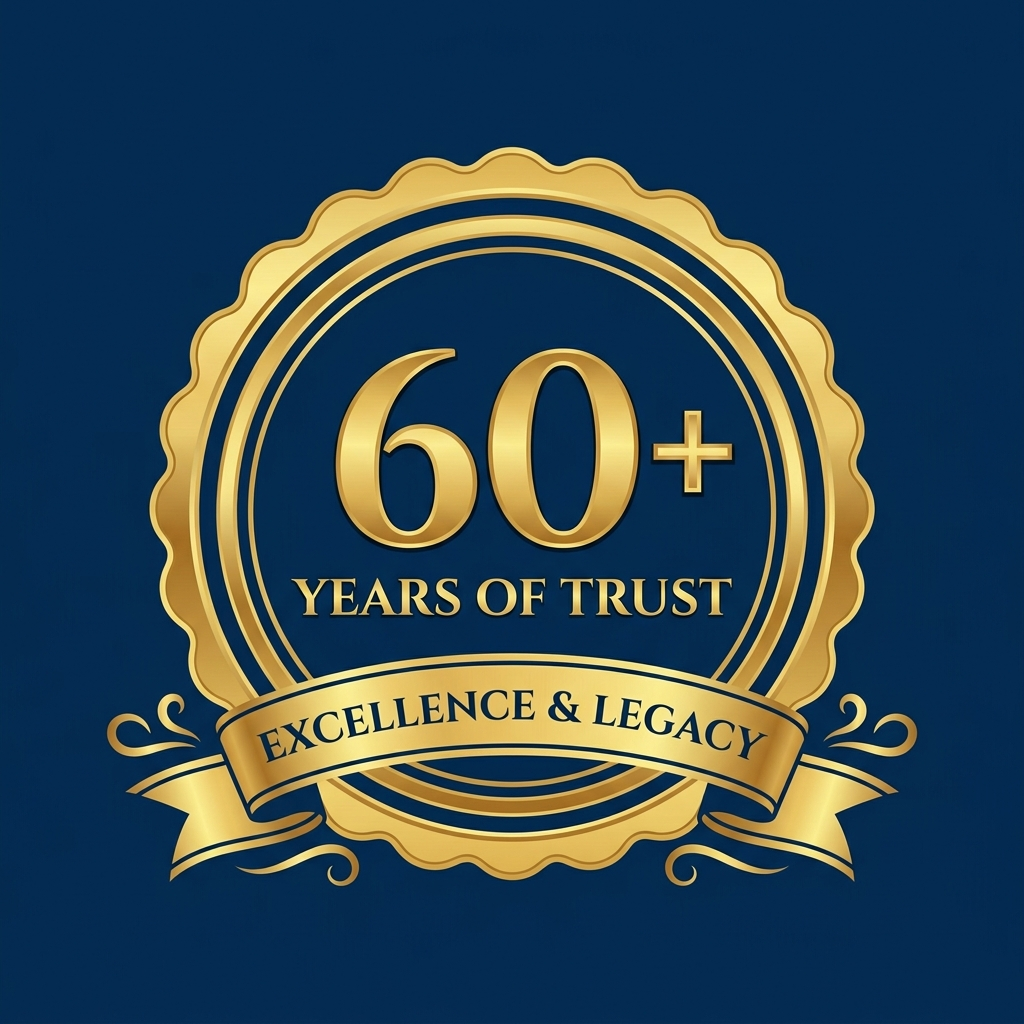
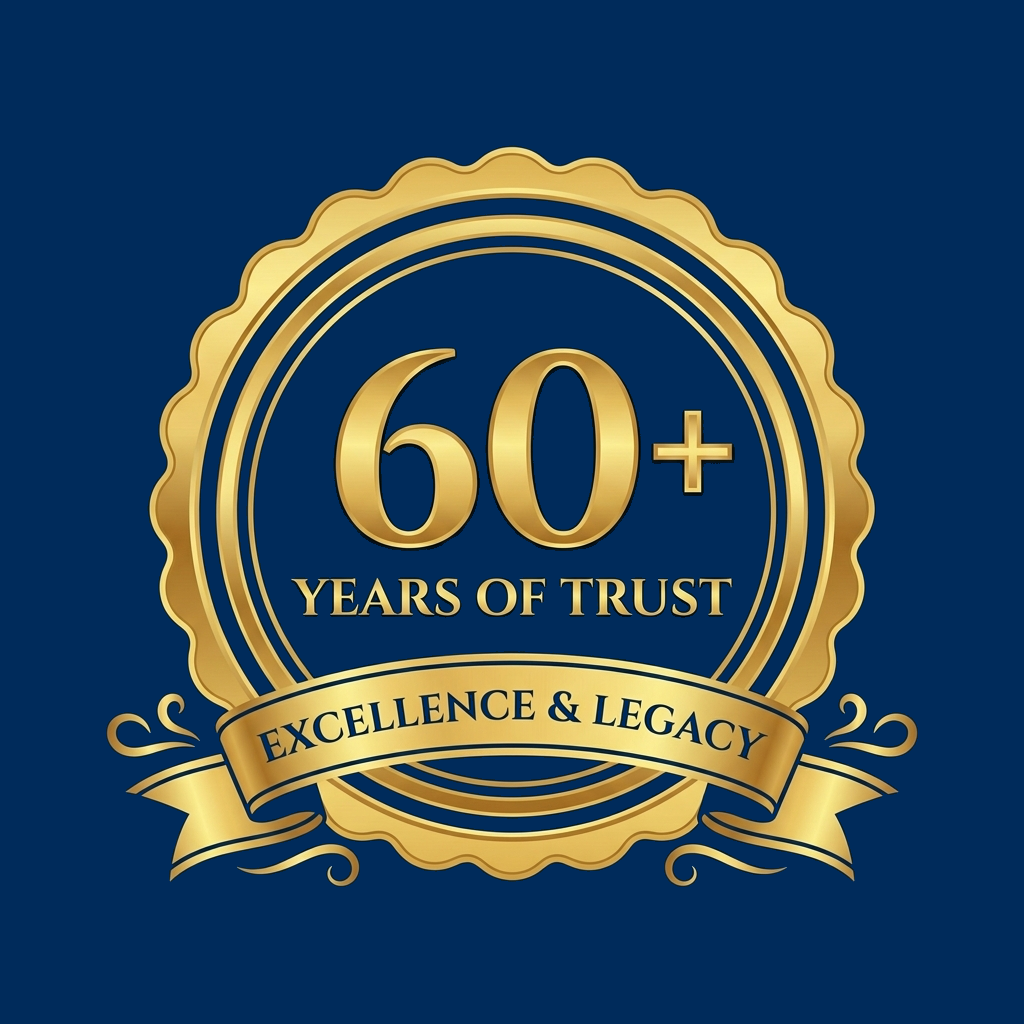
design: update Our Story layout, badge background, and add new vintage store concept images

Changed region(s): [[0.6562, 0.5625, 0.6875, 0.5938], [0.5, 0.5625, 0.5312, 0.5938]]

diff --git a/src/app/our-story/page.tsx b/src/app/our-story/page.tsx
@@ -38,11 +38,11 @@ export default function OurStoryPage() {
           </div>
 
           {/* Right Side */}
-          <div className="w-full lg:w-[60%] pt-[28px] lg:pt-[34px]">
+          <div className="w-full lg:w-[60%] pt-[40px] lg:pt-[126px]">
             {/* Smaller Image Card */}
             <div className="w-full flex flex-col sm:flex-row rounded-[14px] overflow-hidden shadow-[0_12px_30px_rgba(0,0,0,0.08)] border border-[#ececec] mb-7">
               {/* Left Image */}
-              <div className="w-full sm:flex-[2.2] relative h-[250px] lg:h-[380px]">
+              <div className="w-full sm:flex-[2.2] relative h-[220px] lg:h-[300px]">
                 <Image
                   src="/vintage.png"
                   alt="Ramaiah Enterprises 1962"